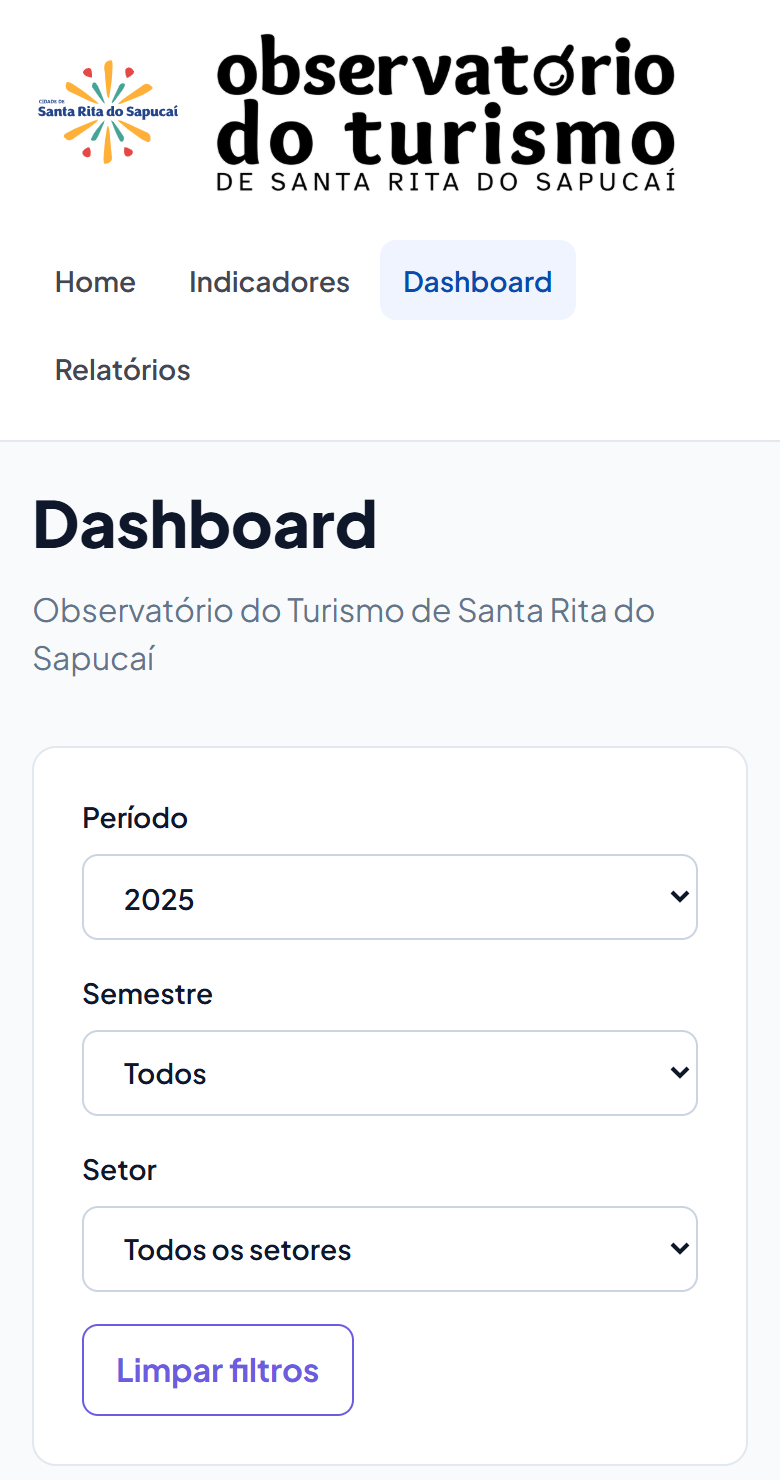
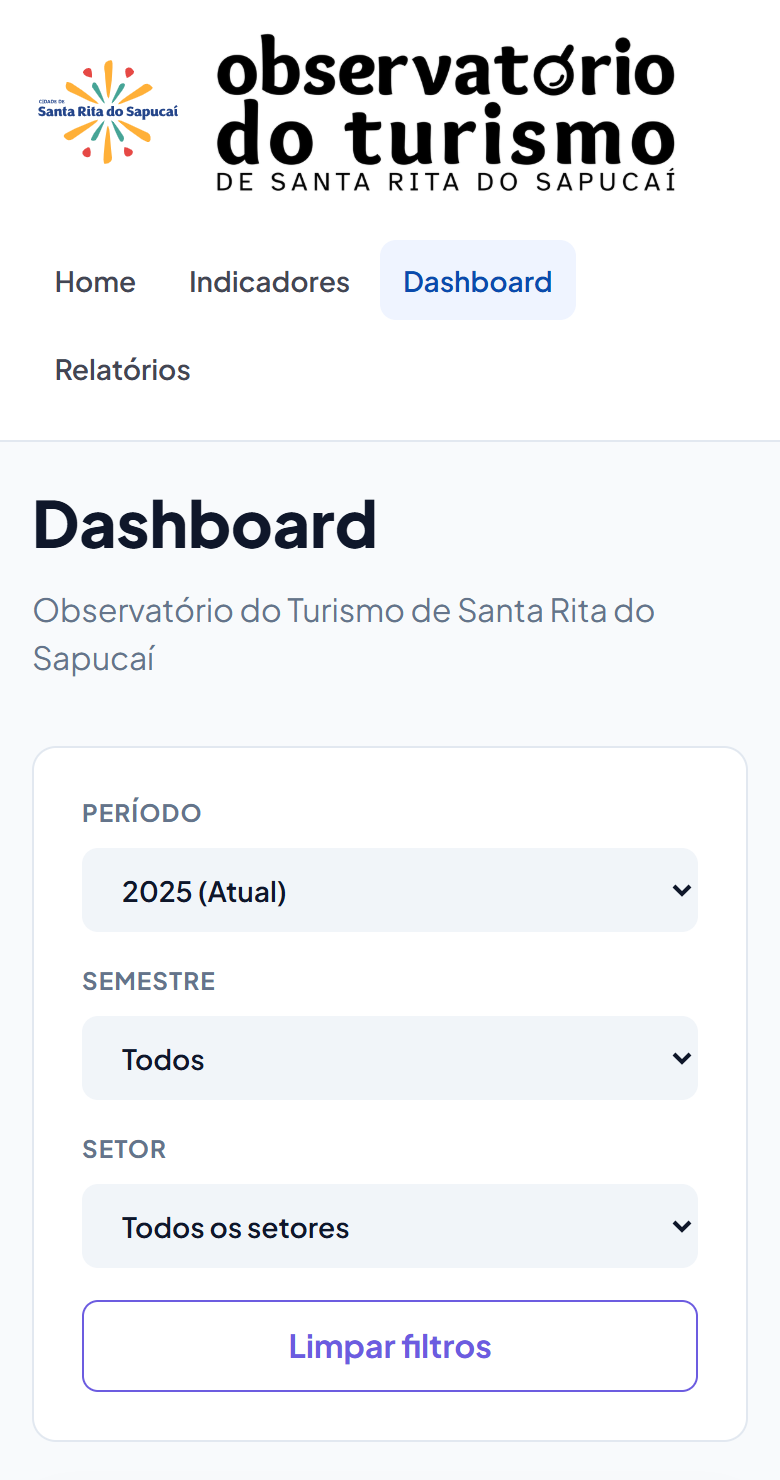
docs: atualiza evidências do PR 119 após a correção

diff --git a/docs/pr-119/README.md b/docs/pr-119/README.md
@@ -6,7 +6,7 @@ Sem filtro (`/dashboard`): Semestre fica desabilitado até escolher um ano.
 
 ![Sem filtro](sem-filtro.png)
 
-Só pelo teclado: Período com `End` (2025), `Tab`, Semestre com `End` (2º semestre), `Tab`, Setor com a seta para baixo (Hospedagem). A URL ficou `/dashboard?ano=2025&semestre=2&setor=1`.
+Só pelo teclado: Período com `End` (2023, porque agora os anos vêm em ordem decrescente), `Tab`, Semestre com `End` (2º semestre), `Tab`, Setor com a seta para baixo (Hospedagem). A URL ficou `/dashboard?ano=2023&semestre=2&setor=1`.
 
 ![Teclado](teclado.png)
 
@@ -22,6 +22,6 @@ Testes de `FiltrosPainel.test.jsx` e o lint:
 
 ![Testes](testes.png)
 
-Comparação com a barra de filtros dos mockups do Stitch (a mesma da Figura 6 do relatório do M3), todos a 1280 px:
+Comparação com a barra de filtros dos mockups do Stitch (a mesma da Figura 6 do relatório do M3), todos a 1280 px, já com a correção do estilo:
 
 ![Comparação com o Stitch](comparacao-stitch.png)
